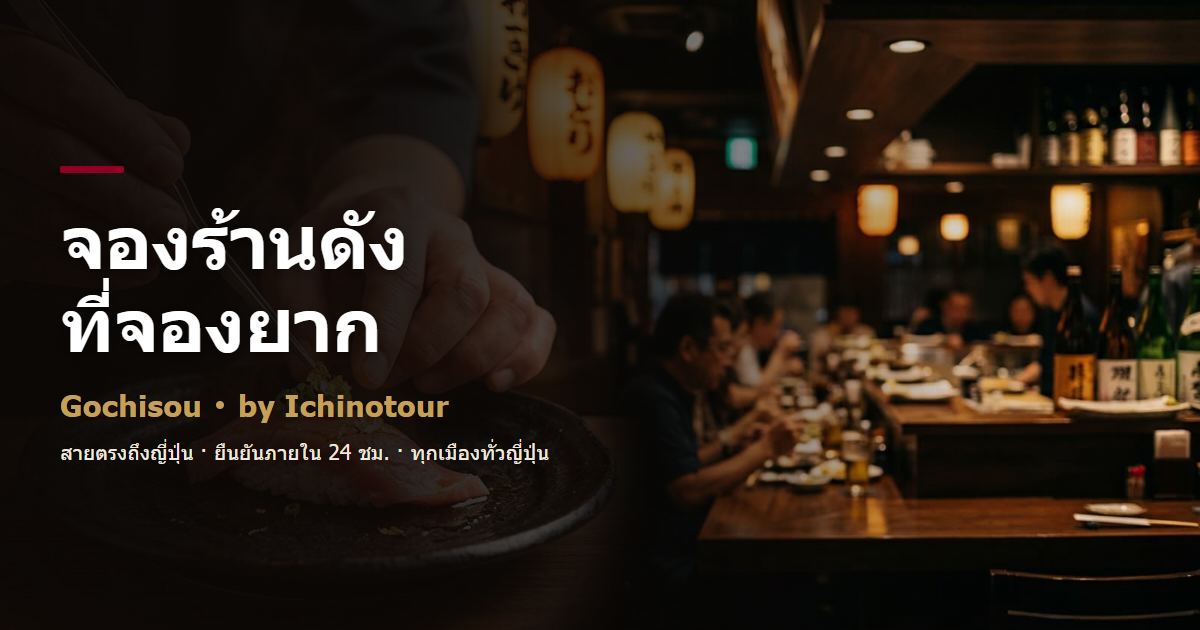
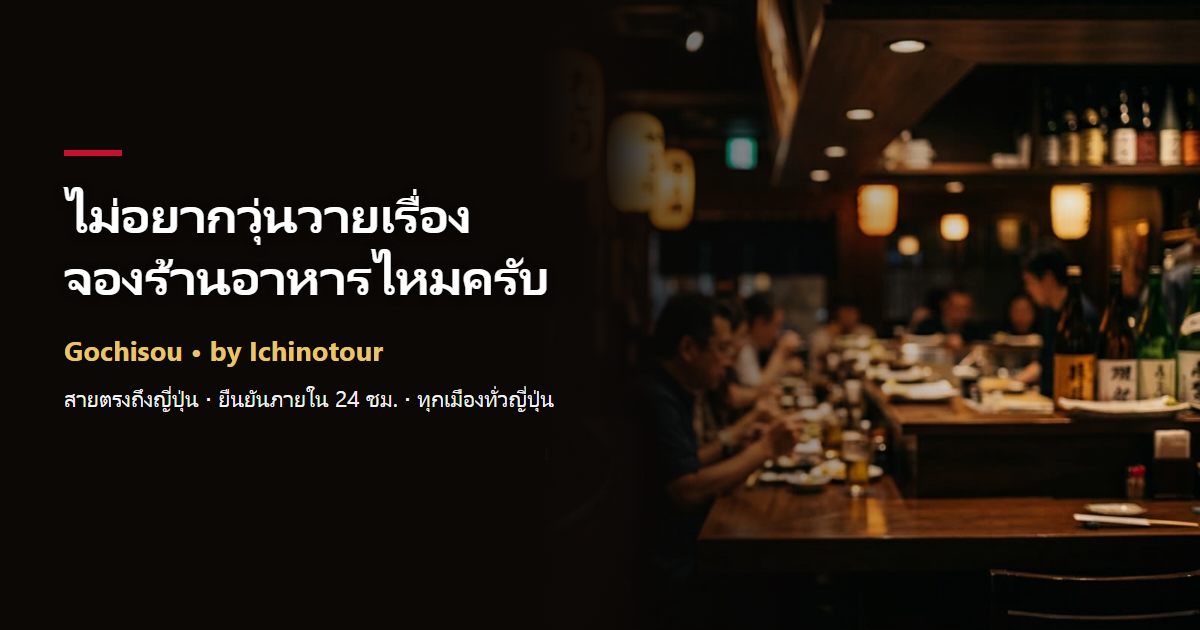
feat(og): new share image with real Thai font, no 'hard to book' claim
- assets/og-image.png rebuilt (1200x630): new hook text
  'ไม่อยากวุ่นวายเรื่อง จองร้านอาหารไหมครับ' (owner wording, 16 Sep)
- built hybrid per system-rules/gochisou.md section 8.2: background photo + real
  Leelawadee UI text rendered via Edge headless (never AI-drawn Thai glyphs)
- docs/og-image-source.html = reproducible source; image-prompts.md records the new method
- verified with vision: Thai vowels/tone marks correct, no leftover old text

diff --git a/docs/og-image-source.html b/docs/og-image-source.html
@@ -1,0 +1,46 @@
+<!DOCTYPE html>
+<!--
+  og-image source — Gochisou (1200x630)
+  วิธีสร้าง (hybrid ตาม system-rules/gochisou.md §8.2 — ห้ามใช้ "ตัวอักษรที่ AI เจน" ในภาพ):
+    1) หาพื้นหลัง: ใช้ภาพถ่ายจาก assets/ (เช่น hero-1.jpg) หรือสำเนา og-image เวอร์ชันก่อนหน้า
+       (16 ก.ย. 69 ใช้สำเนา og-image เดิมเป็นพื้นหลัง + ปิดข้อความเดิมด้วย .veil)
+    2) เปิดไฟล์นี้ด้วย Edge headless แล้วแคปเจอร์:
+       msedge --headless=new --disable-gpu --hide-scrollbars --force-device-scale-factor=1 \
+              --window-size=1200,630 --screenshot=og-image.png og-image-source.html
+    3) QC: เปิดภาพอ่านข้อความทีละคำ (สระ/วรรณยุกต์ไทยต้องไม่ลอย/ซ้อน) + ตรวจว่าไม่มีร่องรอยข้อความเดิม
+  หมายเหตุ: ฟอนต์ไทย = Leelawadee UI (Tahoma สำรอง) เท่านั้น — PIL/Pillow บนเครื่องนี้ไม่มี raqm
+           (HarfBuzz) จึงวางฟอนต์ไทยตรง ๆ จะเพี้ยน → ต้องผ่านเบราว์เซอร์
+-->
+<html lang="th">
+<head>
+<meta charset="utf-8">
+<style>
+  * { margin:0; padding:0; box-sizing:border-box; }
+  html, body { width:1200px; height:630px; overflow:hidden; }
+  body { position:relative; font-family:"Leelawadee UI","Tahoma",sans-serif; background:#0c0806; }
+  /* พื้นหลัง = ภาพถ่าย (วางไฟล์ไว้ข้าง ๆ ไฟล์นี้ หรือแก้ path ให้ตรง) */
+  .bg { position:absolute; inset:0; width:1200px; height:630px; object-fit:cover; }
+  /* ปิดข้อความ/ร่องรอยเดิมฝั่งซ้าย แล้วไล่เฉดให้กลืนกับภาพ */
+  .veil {
+    position:absolute; left:0; top:0; width:660px; height:630px;
+    background:linear-gradient(to right, #0c0806 0%, #0c0806 82%, rgba(12,8,6,0.72) 93%, rgba(12,8,6,0) 100%);
+  }
+  .panel { position:absolute; left:64px; top:150px; width:540px; }
+  .accent { width:58px; height:6px; background:#c8102e; margin-bottom:26px; }
+  h1 { color:#ffffff; font-weight:700; font-size:50px; line-height:1.24; letter-spacing:-0.3px;
+       text-shadow:0 2px 10px rgba(0,0,0,.55); }
+  .brand { margin-top:26px; color:#e8c46a; font-size:27px; font-weight:600; }
+  .sub { margin-top:14px; color:#f2f2f2; font-size:23px; font-weight:400; }
+</style>
+</head>
+<body>
+  <img class="bg" src="base.png" alt="">
+  <div class="veil"></div>
+  <div class="panel">
+    <div class="accent"></div>
+    <h1>ไม่อยากวุ่นวายเรื่อง<br>จองร้านอาหารไหมครับ</h1>
+    <div class="brand">Gochisou • by Ichinotour</div>
+    <div class="sub">สายตรงถึงญี่ปุ่น ‧ ยืนยันภายใน 24 ชม. ‧ ทุกเมืองทั่วญี่ปุ่น</div>
+  </div>
+</body>
+</html>

diff --git a/docs/image-prompts.md b/docs/image-prompts.md
@@ -64,7 +64,12 @@ Michelin quality. No text, no watermark, no logo. Square aspect ratio.
   centered, subtle gold ring border, flat vector style, no other text.
   ```
 - **og-image.png** (1200x630): ภาพโซเชียลแชร์ (เมื่อทำ TikTok/แชร์ LINE)
+  > **อัปเดต 16 ก.ย. 69 — สร้างแบบ hybrid ไม่ใช้ AI เขียนตัวอักษรแล้ว** (ตรงกับ `system-rules/gochisou.md` §8.2)
+  > ต้นทาง: `docs/og-image-source.html` → render ด้วย Edge headless `--window-size=1200,630` → `assets/og-image.png`
+  > ข้อความ: หัวเรื่อง **"ไม่อยากวุ่นวายเรื่อง / จองร้านอาหารไหมครับ"** · ทอง `Gochisou • by Ichinotour` · เล็กล่าง `สายตรงถึงญี่ปุ่น ‧ ยืนยันภายใน 24 ชม. ‧ ทุกเมืองทั่วญี่ปุ่น`
+  > ⚠ ห้ามกลับไปใช้คำ "จองยาก" เป็นข้อเท็จจริงเหมารวม (มติพี่เจ 16 ก.ย. 69)
   ```
+  (prompt เดิม — ไม่ใช้แล้ว เก็บไว้เป็นประวัติ)
   Premium social banner 1200x630: dark charcoal background, hero sushi photo right
   side, left side big Thai text "จองร้านดังที่จองยาก" in white bold sans-serif,
   small gold text "Gochisou by Ichinotour" below, red accent line. Thai text must be
